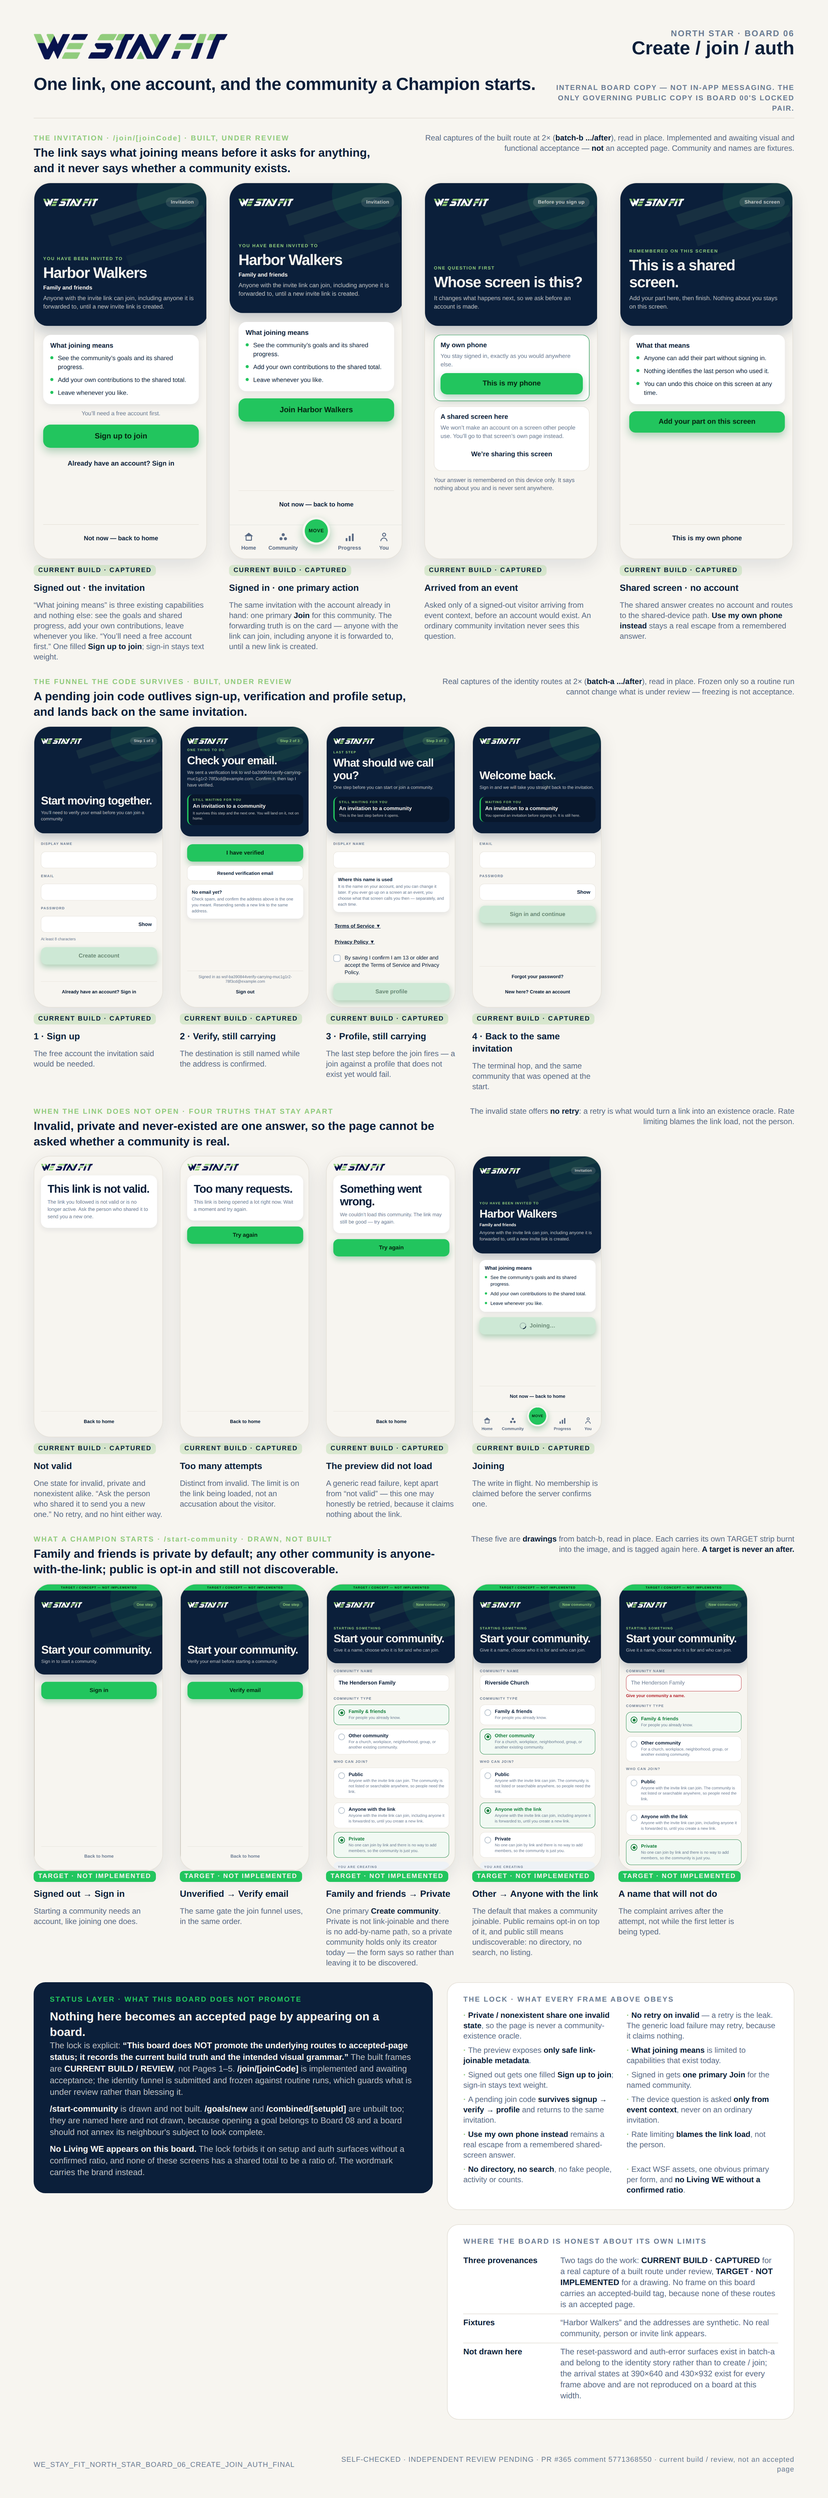
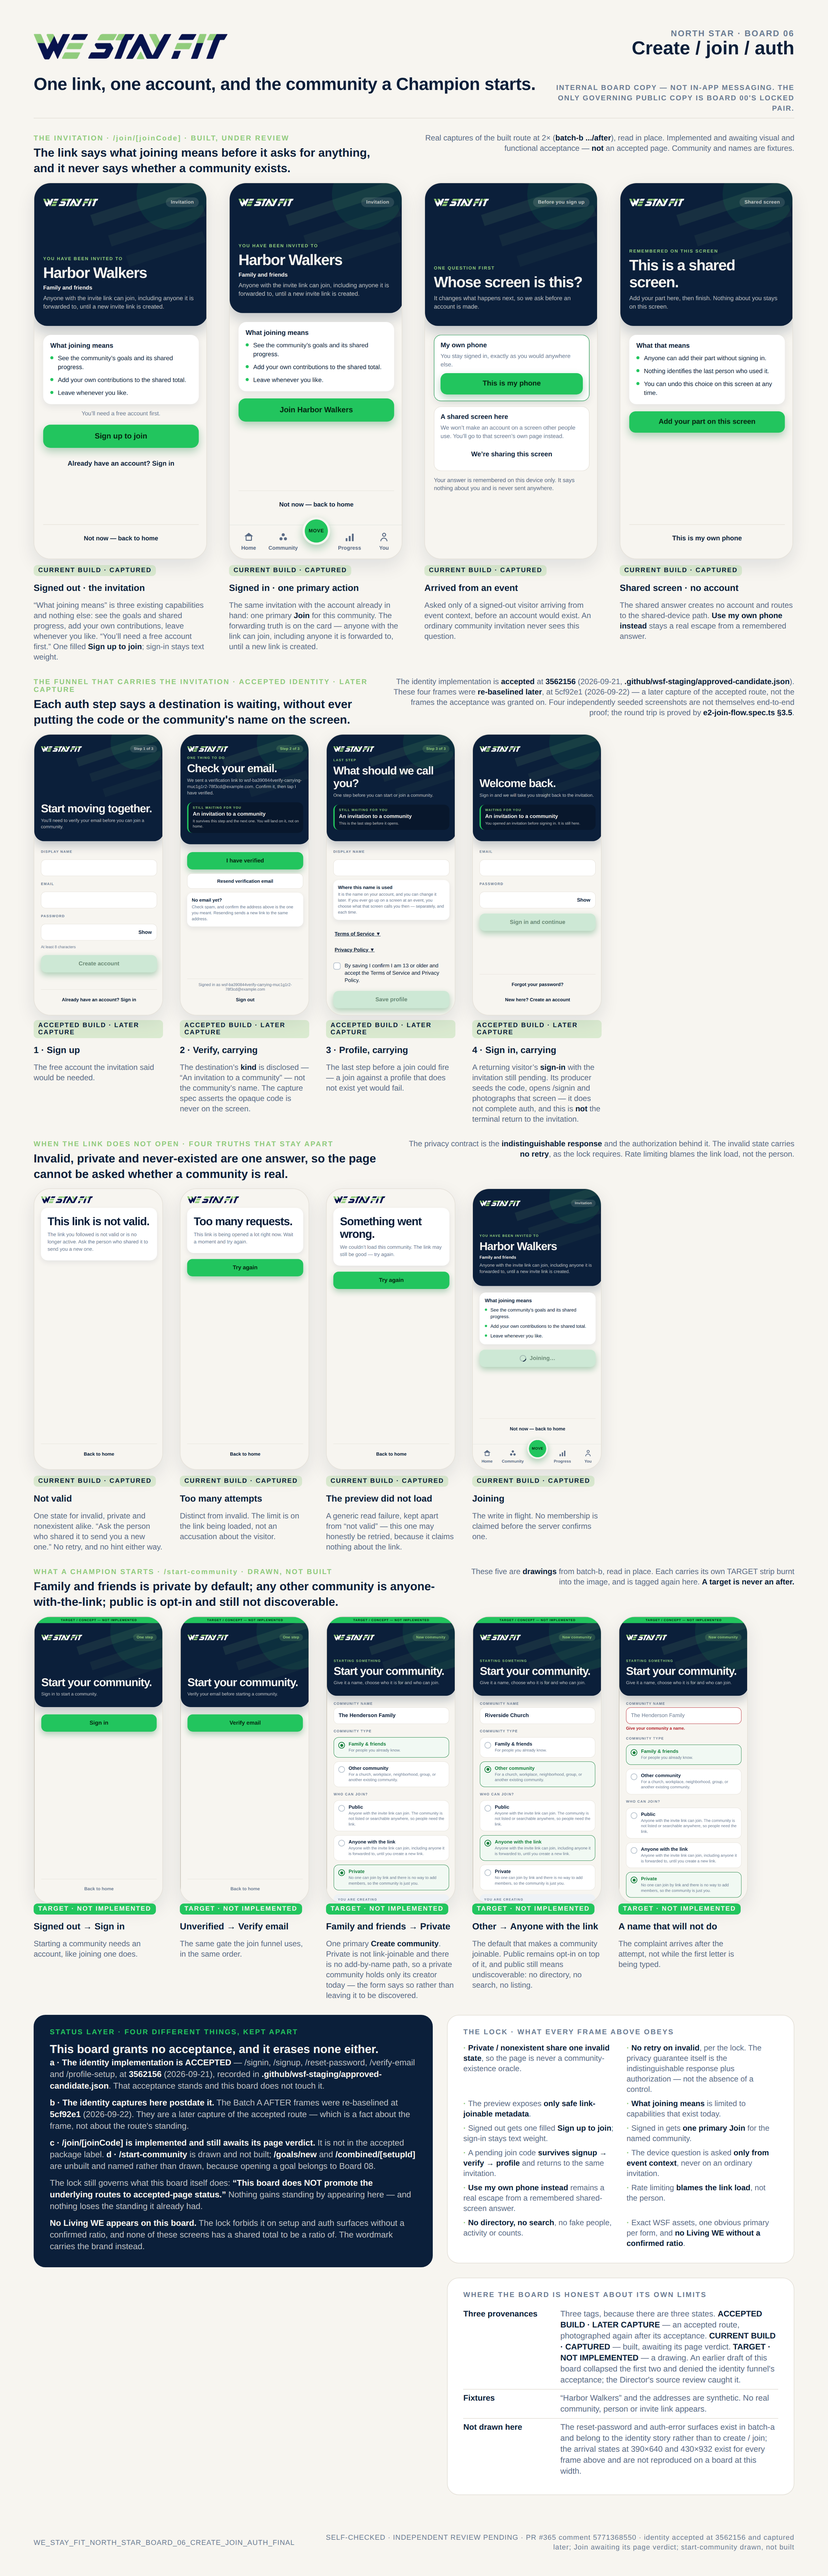
docs(westayfit): Board 06 — the Director's three source corrections
Source/caption review 5784030343 on #404. All three verified against primary
sources before changing anything; all three were right.

1. The fourth funnel frame was mislabelled, and I over-claimed. I called
   AFTER-return-join "Back to the same invitation / the terminal hop". Its
   producer in design-batch-a-after-capture.spec.ts seeds a pending code, opens
   /signin, asserts wsf-signin and the destination line, and shoots wsf-signin.
   It never completes auth and never reaches /join. It is now "4 · Sign in,
   carrying", described as what it is. The related claim that the community is
   "named" at each auth step is also wrong and is gone: the frames disclose the
   destination KIND -- "An invitation to a community" -- and the same spec
   asserts the opaque code is never on screen, which is a better fact than the
   one I had. Continuity is now credited to e2-join-flow.spec.ts §3.5 rather
   than implied by four independently seeded screenshots.

2. The board denied an acceptance that exists. .github/wsf-staging/
   approved-candidate.json on main records the identity funnel accepted at
   3562156 (2026-09-21). I had reasoned from check-evidence-intact's freeze-list
   comment and never looked for a positive record. The four states are now kept
   apart: the identity implementation is accepted; its frames here were
   re-baselined afterwards at 5cf92e1, so they carry ACCEPTED BUILD / LATER
[…]

diff --git a/docs/design-target/north-star-final/board-06/README.md b/docs/design-target/north-star-final/board-06/README.md
@@ -5,12 +5,14 @@ filename is the lock verdict's canonical name for this artifact, not an
 acceptance status. Locked by PR #365 comment
 [`5771368550`](https://github.com/idevinsimpson/goarrive/pull/365#issuecomment-5771368550).
 
-Status layer, from that lock — and it is the most important sentence about this
-board: *"This board does NOT promote the underlying routes to accepted-page
-status; it records the current build truth and the intended visual grammar."*
-**Board 06 surfaces are CURRENT BUILD / REVIEW, not accepted Pages 1–5.**
+Status layer, from that lock: *"This board does NOT promote the underlying
+routes to accepted-page status; it records the current build truth and the
+intended visual grammar."* Nothing gains standing by appearing here — **and
+nothing loses the standing it already had.** The identity funnel's existing
+acceptance is recorded on the board rather than overwritten by it; see *Three
+provenances* below.
 
-`WE_STAY_FIT_NORTH_STAR_BOARD_06_CREATE_JOIN_AUTH_FINAL.png` · 2560×3860 (1280×3860 @2x)
+`WE_STAY_FIT_NORTH_STAR_BOARD_06_CREATE_JOIN_AUTH_FINAL.png` · 2560×3980 (1280×3980 @2x)
 
 Authorised as W2's packet by the Director's `5783373780` §2 (*"The 00–05 stop
 gate is removed"*), relayed on PR #397 `5783475743`, and confirmed against the
@@ -35,20 +37,27 @@ committed board — Board 03 — and reproduced it **byte-identically**. So the
 toolchain is faithful here, and nothing on Board 06 is an artefact of a
 different browser or font stack.
 
-## Three provenances, two tags, never blurred
+## Three provenances, three tags, never blurred
 
-This is the part of Board 06 that needed the most care, because the routes it
-covers are in three different states at once.
+This is the part of Board 06 that needed the most care, and **the first draft got
+it wrong.** It collapsed the identity funnel and the Join route into one
+"current build, not accepted" tag, reasoning from the freeze-list comment in
+`check-evidence-intact.mjs` (*"submitted for visual/functional review"*) and
+never looking for a positive acceptance record. There is one, and the Director's
+source review caught the error.
 
-| Source | State | Tag on the board |
+| Source | Actual state | Tag on the board |
 | --- | --- | --- |
-| `batch-b-join-and-setup/after/` | `/join/[joinCode]` — **implemented**, awaiting visual and functional acceptance. Deliberately **not** in the frozen/accepted list, because it has not been reviewed. | `CURRENT BUILD · CAPTURED` |
-| `batch-a-identity/after/` | the identity funnel — **built**, submitted for review. Frozen only so a routine run cannot change what is under review. | `CURRENT BUILD · CAPTURED` |
+| `batch-a-identity/after/` | the identity funnel — **ACCEPTED**. `/signin`, `/signup`, `/reset-password`, `/verify-email`, `/profile-setup`, accepted at `3562156` (2026-09-21), recorded in `.github/wsf-staging/approved-candidate.json`. The frames here were **re-baselined afterwards**, at `5cf92e1` (2026-09-22). | `ACCEPTED BUILD · LATER CAPTURE` |
+| `batch-b-join-and-setup/after/` | `/join/[joinCode]` — **implemented, still awaiting its page verdict**. Not in the accepted package label; its `after/` set is deliberately not frozen, because it has not been reviewed. | `CURRENT BUILD · CAPTURED` |
 | `batch-b-join-and-setup/TARGET-*` | `/start-community` — **drawn, never built**. Each frame carries its own TARGET strip burnt into the image. | `TARGET · NOT IMPLEMENTED` |
 
-**No frame on this board carries an accepted-build tag**, because none of these
-routes is an accepted page. Freezing is not acceptance, and the board says so on
-its face rather than leaving the distinction to this file.
+Two lessons are recorded rather than quietly fixed. **Freezing is not what makes
+something accepted — the record is.** The freeze list guards what is under
+review; it is evidence of neither acceptance nor its absence, and inferring
+either way from it was the mistake. And **a later capture of an accepted route
+is still a later capture**: that is a fact about the frame, not a demotion of
+the route.
 
 `/goals/new` and `/combined/[setupId]` are unbuilt as well. They are **named on
 the status panel and not drawn** — opening a goal is Board 08's subject, and a
@@ -70,9 +79,9 @@ board should not annex its neighbour's material to look complete.
 | signed-out invitation says a free account is required, one filled `Sign up to join`, text-weight `Already have an account? Sign in` | `AFTER-invite-out` — *"You'll need a free account first."*, filled green primary, sign-in at text weight |
 | signed-in invitation uses one primary `Join <community>` | `AFTER-invite-in` — `Join Harbor Walkers` |
 | `What joining means` limited to existing capabilities: see goals/shared progress, add own contributions, leave whenever you like | Exactly those three bullets, and nothing else, on both invite frames |
-| pending join code survives signup → verify-email → profile-setup → return-to-same-join | The four-frame funnel section, using the `carrying` variants that show the destination still named at each step |
+| pending join code survives signup → verify-email → profile-setup → return-to-same-join | The four-frame funnel section, using the `carrying` variants. Each frame discloses the destination's **kind** — *"An invitation to a community"* — never the community's name or the code; the capture spec asserts the opaque value is not on screen. The four are independently seeded screenshots and are **not** themselves end-to-end proof: the round trip is proved by `e2-join-flow.spec.ts` §3.5, cited on the board |
 | invalid, rate limit and generic preview error stay distinct | Three separate frames in the failure section, captioned with what makes each different |
-| invalid/private/unknown has **no retry** that could leak existence | `AFTER-not-valid` has no retry control; the two that do are the ones that claim nothing about the link |
+| invalid/private/unknown has **no retry** that could leak existence | `AFTER-not-valid` carries no retry control; the two that do are the ones that claim nothing about the link. The board states the privacy contract as the **indistinguishable response and the authorization behind it** — an earlier draft asserted "a retry is the leak" as a categorical security claim, which the cited source does not establish, and the Director had it removed. The UI behaviour is unchanged |
 | rate limit blames the link load, not the person | `AFTER-too-many`, captioned so |
 | device question asked only from event context, before an account exists | `AFTER-device-choice`, captioned that an ordinary invitation never sees it |
 | shared screen creates NO account, routes to the shared-device path | `AFTER-device-shared` |
